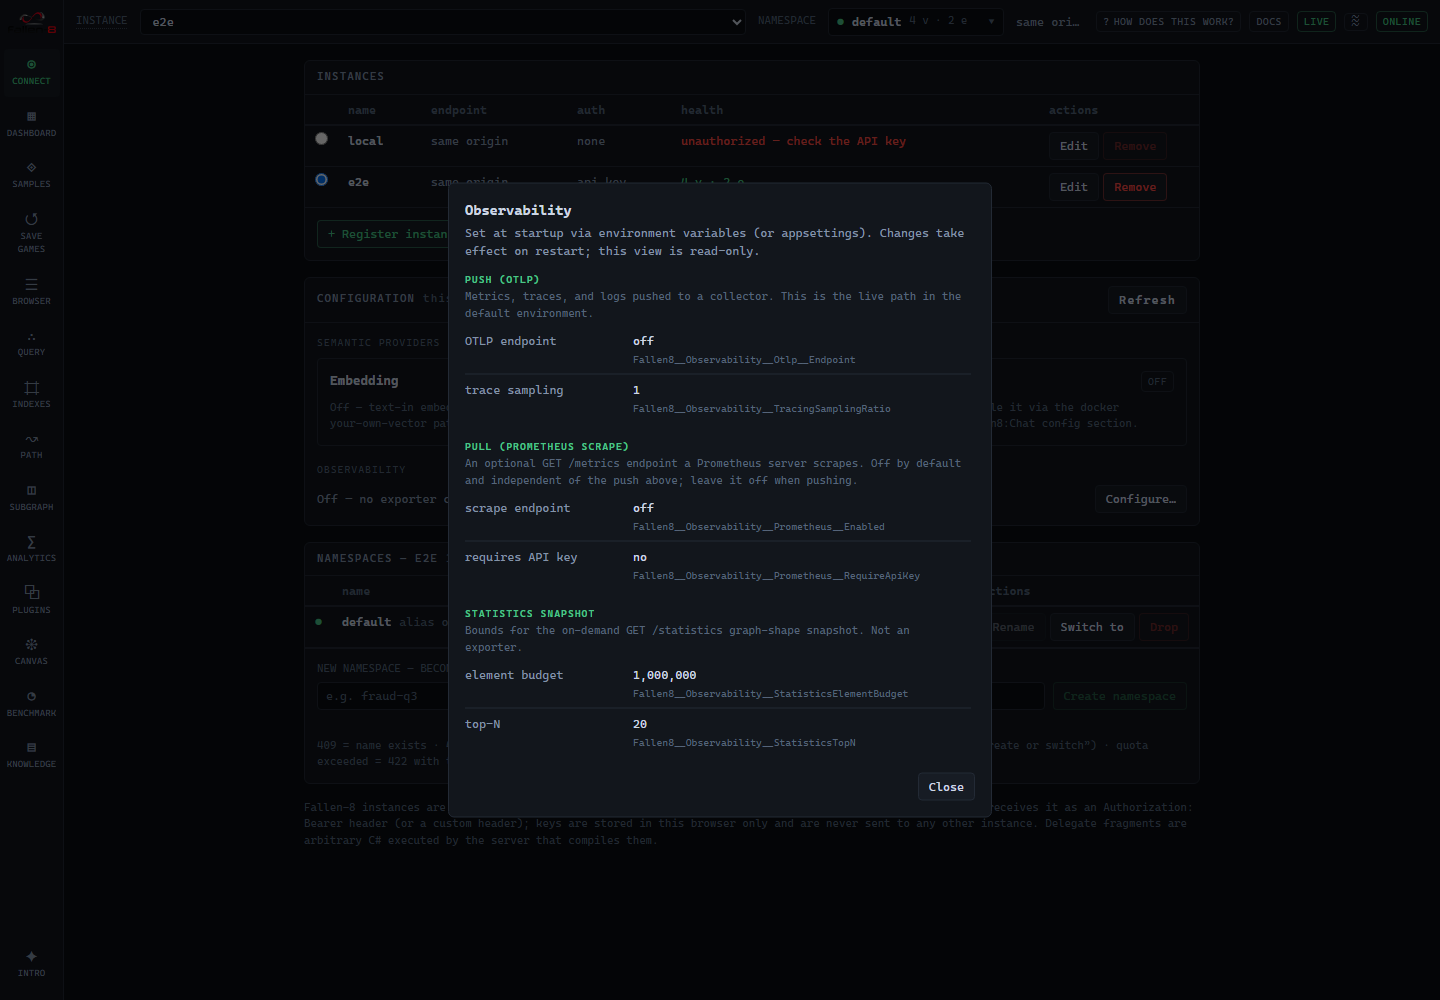
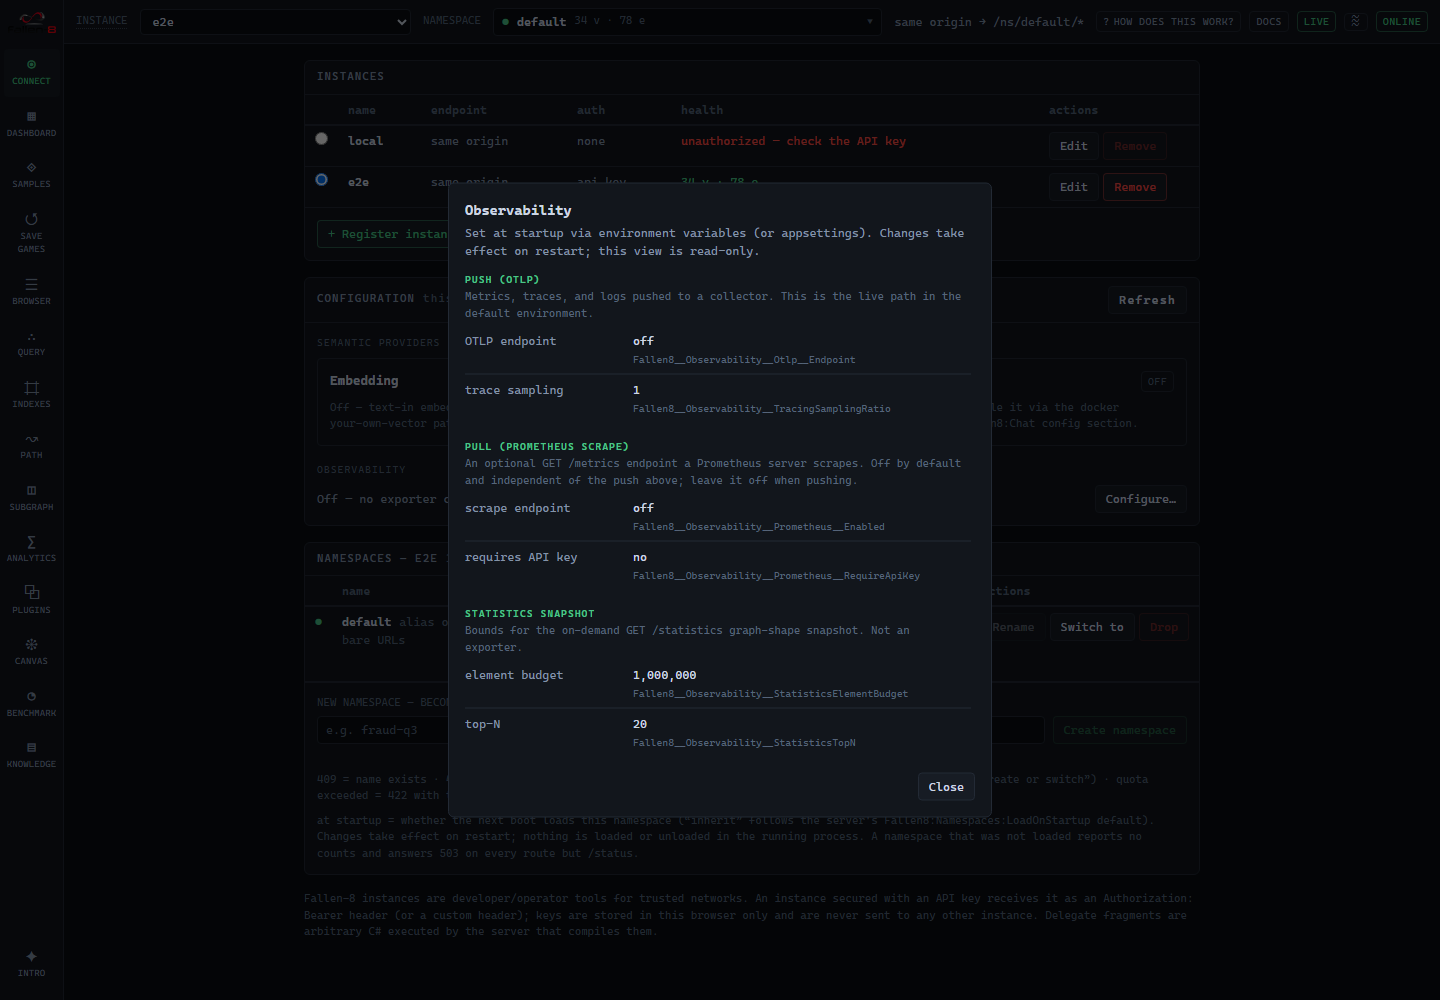
fix(studio): give the top bar's namespace side room, and let it fill that room
The bar split evenly between the instance select and the namespace group, which
starved the side that actually grows: the switcher's live counts squeezed the
namespace name down to a few characters and the endpoint prefix truncated
mid-URL, while the instance select sat half-empty holding a short registry name.

The bar now reserves three quarters for the namespace side. Measured in Chromium
at a 1440px viewport, the room for the namespace label, switcher and endpoint
goes from 326px to 661px, and neither the counts nor the endpoint truncate any
more.

The switcher is also the one element in that column that grows (flex-auto on the
wrapper, w-full on the trigger, min-w-44 floor kept), so the reserved room lands
inside the namespace box rather than as a blank stretch in front of the
right-pinned status chips: 0px of slack from 1280px to 2560px. Flex growth
resolves before the chips' auto margin, which is what keeps them flush right.
Worst-case counts, grouped exact digits in the millions on both sides, fit
inside the box with the name intact.

Two class pins keep the rule, since jsdom computes no layout: the column split
in app-shell.test.tsx, the filling trigger in namespaces.test.tsx.

Recaptured every docs screenshot that shows the top bar.

diff --git a/fallen-8-web-ui/src/app/AppShell.tsx b/fallen-8-web-ui/src/app/AppShell.tsx
@@ -311,10 +311,16 @@ export function AppShell({ children }: { children: ReactNode }) {
       </nav>
 
       <div className="flex min-w-0 flex-1 flex-col">
-        {/* Two equal halves: the instance group fills the LEFT half, the namespace group +
-            endpoint left-align from the midpoint in the RIGHT half, and the status chips stay
-            pinned to the far-right corner. */}
-        <header className="border-line bg-panel grid h-11 shrink-0 grid-cols-2 items-center gap-3 border-b px-3">
+        {/* One quarter / three quarters, not halves: the instance group only ever shows a short
+            registry name, while the RIGHT column carries the namespace switcher WITH its live
+            counts (a graph can hold millions of vertices and edges), the endpoint prefix, and the
+            status chips pinned to the far-right corner. Splitting evenly starved that side - the
+            counts squeezed the namespace name to a few characters and the endpoint truncated
+            mid-URL - so the second column takes its extra room from the first.
+            The switcher is the only element in that column that GROWS (flex-auto), which is what
+            keeps the extra room from showing up as a blank stretch: it resolves before the chips'
+            auto margin, so the room lands in the namespace box and the chips stay flush right. */}
+        <header className="border-line bg-panel grid h-11 shrink-0 grid-cols-[1fr_3fr] items-center gap-3 border-b px-3">
           <div className="flex min-w-0 items-center gap-3">
             <label
               htmlFor="instance-switcher"
@@ -331,7 +337,7 @@ export function AppShell({ children }: { children: ReactNode }) {
                 {active?.name ?? ""}
               </span>
             ) : (
-              /* flex-1 makes the select fill the rest of the left half (.input is w-full, which
+              /* flex-1 makes the select fill the rest of the first column (.input is w-full, which
                  flex-1's basis overrides for the flex main size). */
               <select
                 id="instance-switcher"

diff --git a/fallen-8-web-ui/src/components/NamespaceSwitcher.tsx b/fallen-8-web-ui/src/components/NamespaceSwitcher.tsx
@@ -121,13 +121,19 @@ export function NamespaceSwitcher({
         : null;
 
   return (
-    <div ref={containerRef} className="relative">
+    <div ref={containerRef} className="relative min-w-44 flex-auto">
+      {/* The trigger FILLS the room its container gives it (flex-1 + w-full) instead of hugging its
+          text: in the top bar it is the one growing element between the fixed namespace label and
+          the right-pinned status chips, so whatever the bar reserves for the namespace side is
+          occupied by the name and the counts rather than left as dead space. It also means the
+          counts never run out of room at their worst ("12,345,678 v · 98,765,432 e"), and under
+          real pressure the name truncates before them (Truncated is the only min-w-0 child). */}
       <button
         type="button"
         data-testid="namespace-switcher"
         aria-haspopup="listbox"
         aria-expanded={open}
-        className="input flex w-auto max-w-[20rem] min-w-44 cursor-pointer items-center gap-2 text-left"
+        className="input flex w-full cursor-pointer items-center gap-2 text-left"
         onClick={() => (open ? close() : setOpen(true))}
       >
         {/* The trigger's dot is the residency signal on EVERY screen: an active namespace the

diff --git a/fallen-8-web-ui/tests/app-shell.test.tsx b/fallen-8-web-ui/tests/app-shell.test.tsx
@@ -256,6 +256,26 @@ describe("nav gating on connection state", () => {
   });
 });
 
+/**
+ * Top-bar column split. The namespace side carries three things that grow - the switcher with its
+ * live counts (a graph can hold millions of vertices and edges), the endpoint prefix, and the
+ * right-pinned status chips - while the instance side only ever shows a short registry name. An
+ * even split starved it: measured at a 1440px viewport, the namespace group had 326px and both the
+ * counts and the endpoint truncated; three quarters gives it 661px and neither does. jsdom computes
+ * no layout, so the declaration that decides it is what gets pinned here.
+ */
+describe("top bar column split", () => {
+  it("gives the namespace side three quarters of the bar, not half", () => {
+    statusMock.mockResolvedValue(STATUS);
+    renderShell();
+
+    const header = document.querySelector("header");
+    expect(header).not.toBeNull();
+    expect(header!.className).toContain("grid-cols-[1fr_3fr]");
+    expect(header!.className).not.toContain("grid-cols-2");
+  });
+});
+
 describe("deep-link guard", () => {
   it("replaces gated screens when the credential is rejected", async () => {
     statusMock.mockResolvedValue({ ...STATUS, apiKeyRequired: true, authenticated: false });

diff --git a/fallen-8-web-ui/tests/namespaces.test.tsx b/fallen-8-web-ui/tests/namespaces.test.tsx
@@ -304,6 +304,22 @@ describe("namespace switcher dropdown", () => {
     expect(screen.getByTestId("namespace-dropdown-footer")).toHaveTextContent(/2 \/ 10[., ]000/);
   });
 
+  it("fills the room its container gives it rather than hugging its text", () => {
+    renderSwitcher();
+
+    // jsdom computes no layout, so the width DECLARATION is what can be pinned. This is the
+    // trigger's half of the top bar's split (see app-shell.test.tsx): the bar reserves three
+    // quarters for the namespace side, and the switcher is the one element there that grows, so
+    // the reserved room ends up inside the namespace box instead of as a blank stretch in front of
+    // the right-pinned chips. A content-hugging trigger (w-auto) is what left that gap.
+    const trigger = screen.getByTestId("namespace-switcher");
+    expect(trigger.className).toContain("w-full");
+    expect(trigger.className).not.toContain("w-auto");
+    expect(trigger.parentElement!.className).toContain("flex-auto");
+    // Still floored, so a namespace with no counts yet does not collapse to its glyphs.
+    expect(trigger.parentElement!.className).toContain("min-w-44");
+  });
+
   it("filters rows and switches on click", async () => {
     const user = userEvent.setup();
     renderSwitcher();
